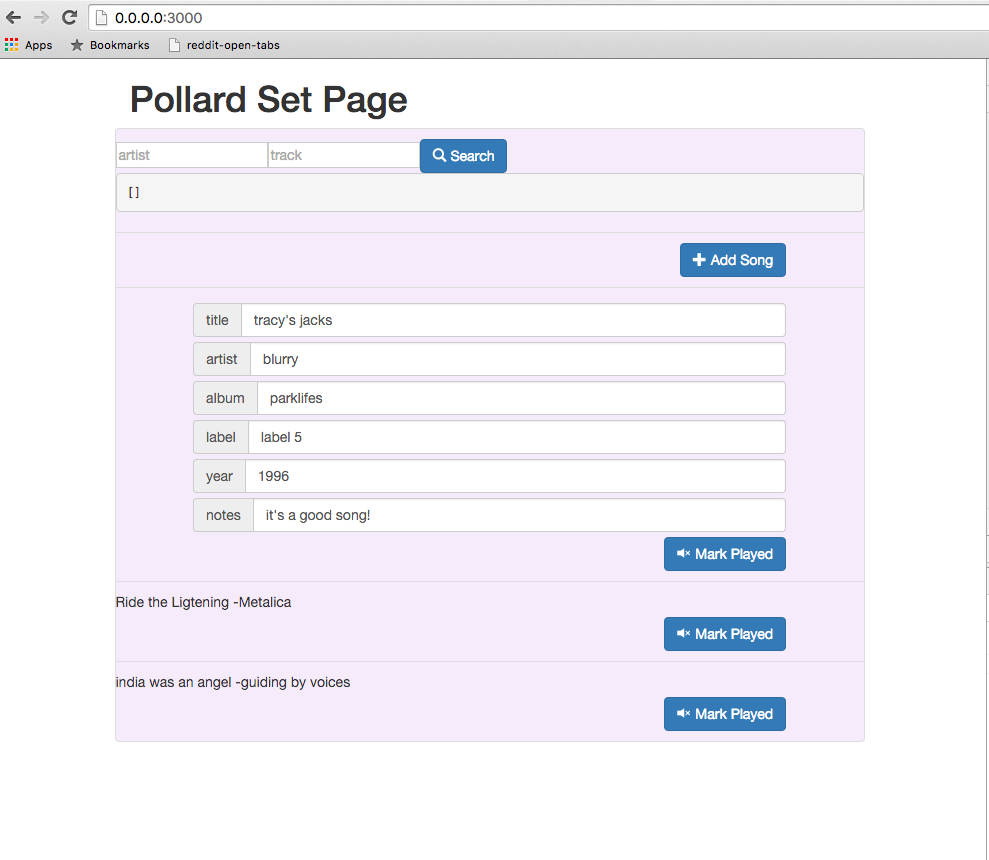
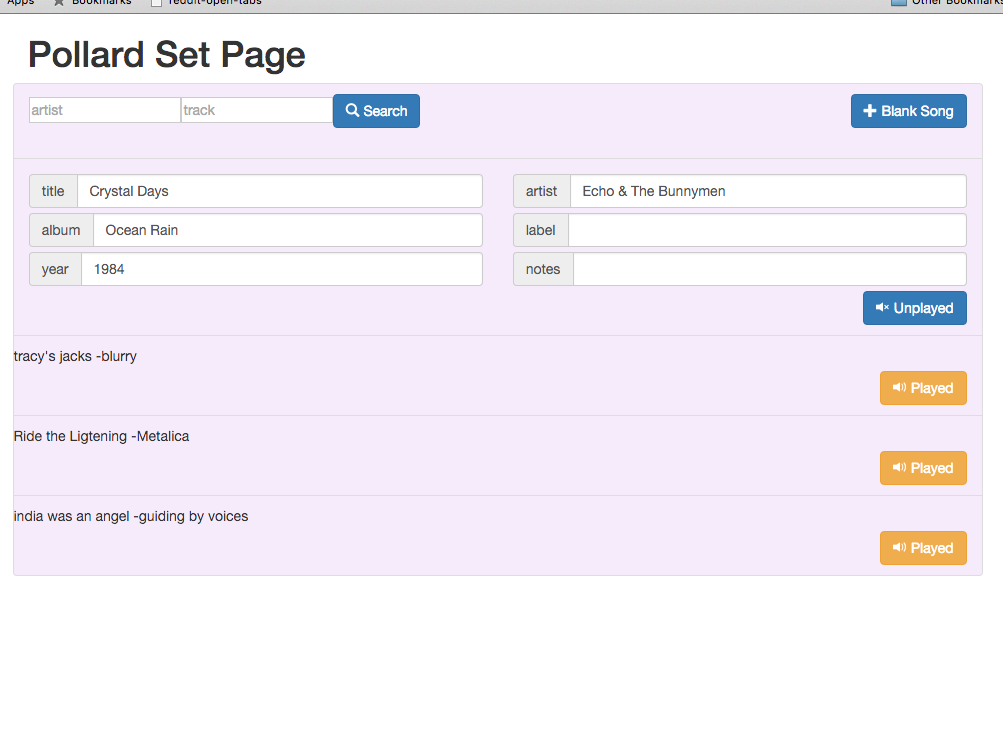
Add MarkPlayed UX
Will probably need to set some sort of rules for
when you can mark a song played
like you don't want to be able to mark a song played if there are
unplayed songs in front of it.

diff --git a/components/MarkPlayedBtn.js b/components/MarkPlayedBtn.js
@@ -1,30 +1,54 @@
 import React, { Component } from 'react';
 import classNames from 'classnames';
 
-import { POLLARD_ACTION } from '../constants/ActionTypes';
 import mergeStyles from '../lib/mergeStyles';
 
 
 export default class MarkPlayedBtn extends Component {
 	handleClick(event) {
-		console.log('hit mark played button');
+		this.props.onMarkSongPlayed(this.props.songId);
 	}
 
   render() {
-		let gridStyle = mergeStyles({
+		const gridStyle = mergeStyles({
 			marginTop: 5
 		});
+
+		let btnText;
+		let btnClass;
+		let spanGlyph;
+
+		if (this.props.isSongPlayed) {
+			btnText = 'Played';
+			btnClass = 'btn-warning';
+			spanGlyph = 'glyphicon-volume-up';
+		} else {
+			btnText = 'Unplayed';
+			btnClass = 'btn-primary';
+			spanGlyph = 'glyphicon-volume-off';
+		}
+
+		let btnClasses = classNames(
+			btnClass,
+			"btn",
+			"pull-right"
+		);
+
+		let spanClasses = classNames(
+			"glyphicon",
+			spanGlyph
+		);
 
     return (
 			<div className="col-xs-11 col-md-12" style={ gridStyle }>
 				<button
 					type="button"
-					className="btn btn-primary pull-right"
+					className={ btnClasses }
 					onClick={ (e) => this.handleClick(e) }
 					>
 					<span
-						className="glyphicon glyphicon-volume-off"
-						aria-hidden="true"></span> Mark Played
+						className={ spanClasses }
+						aria-hidden="true"></span> { btnText }
 				</button>
 			</div>
     );

diff --git a/components/Setlist.js b/components/Setlist.js
@@ -1,6 +1,5 @@
 import React, { Component } from 'react';
 
-import { POLLARD_ACTION } from '../constants/ActionTypes';
 import flatten2Array from '../lib/flattenObjectToArray';
 
 import SearchSong from './SearchSong';
@@ -23,10 +22,12 @@ export default class Setlist extends Component {
 							songId={ tuple[0] }
 							selectedSong={ this.props.selectedSong }
 							key={ idx }
+							onMarkSongPlayed={ this.props.onMarkSongPlayed }
 							onUpdateSong={ this.props.onUpdateSong } />:
 						<Song song={ tuple[1] }
 							songId={ tuple[0] }
 							key={ idx }
+							onMarkSongPlayed={ this.props.onMarkSongPlayed }
 							onSongClick={ this.props.onSongClick } />
 					)}
 				</ul>

diff --git a/components/SelectedSong.js b/components/SelectedSong.js
@@ -1,7 +1,6 @@
 import React, { Component } from 'react';
 import classNames from 'classnames';
 
-import { POLLARD_ACTION } from '../constants/ActionTypes';
 import SongInput from './SongInput';
 import MarkPlayedBtn from './MarkPlayedBtn';
 import mergeStyles from '../lib/mergeStyles';
@@ -31,7 +30,10 @@ export default class SelectedSong extends Component {
 				<div
 					className="row">
 					{ inputs }
-					<MarkPlayedBtn />
+					<MarkPlayedBtn
+						songId={ this.props.songId }
+						isSongPlayed={ this.props.song.played }
+						onMarkSongPlayed={ this.props.onMarkSongPlayed } />
 				</div>
 			</li>
     );

diff --git a/components/SetPage.js b/components/SetPage.js
@@ -1,6 +1,9 @@
 import React, { Component, PropTypes } from 'react';
 import { connect } from 'react-redux';
-import { selectSong, updateSong, addSong, searchSong } from '../actions/Actions.js';
+import { selectSong, updateSong,
+		addSong, searchSong,
+		markSongPlayed
+} from '../actions/Actions.js';
 
 import Setlist from './Setlist.js';
 
@@ -27,6 +30,9 @@ class SetPage extends Component {
 					}
 					onSearchSong={ (song) => 
             dispatch(searchSong(song))
+					}
+					onMarkSongPlayed={ (songId) => 
+            dispatch(markSongPlayed(songId))
 					}
 				/>
 			</div>

diff --git a/reducers/reducer.js b/reducers/reducer.js
@@ -19,7 +19,7 @@ const initialDataSongsState = Immutable.fromJS({
 			year: '1996',
 			notes: 'it\'s a good song!',
 		},
-		played: true
+		played: false
 	},
 	'id2': {
 		inputs: {
@@ -122,6 +122,10 @@ export function dataSongs(state = initialDataSongsState, action) {
 
 		return Immutable.Map(songObj).merge(state);
 	case actionTypes.MARK_SONG_PLAYED:
+		return state.setIn(
+			[action.id, 'played'],
+			!state.get(action.id).get('played')
+		);
 	case actionTypes.DELETE_SONG:
 		debugger;
     return state;

diff --git a/components/Song.js b/components/Song.js
@@ -24,7 +24,10 @@ export default class Song extends Component {
 					className="row">
 					{ this.props.song.inputs.title } - 
 					{ this.props.song.inputs.artist }
-					<MarkPlayedBtn />
+					<MarkPlayedBtn
+						songId={ this.props.songId }
+						isSongPlayed={ this.props.song.played }
+						onMarkSongPlayed={ this.props.onMarkSongPlayed } />
 				</div>
 			</li>
     );

diff --git a/actions/Actions.js b/actions/Actions.js
@@ -49,10 +49,10 @@ export function addSong(song) {
   }
 };
 
-export function markSongPlayed(payload) {
+export function markSongPlayed(id) {
   return {
     type: types.MARK_SONG_PLAYED,
-    payload
+    id
   }
 };
 

diff --git a/components/SongInput.js b/components/SongInput.js
@@ -1,7 +1,6 @@
 import React, { Component } from 'react';
 import classNames from 'classnames';
 
-import { POLLARD_ACTION } from '../constants/ActionTypes';
 import mergeStyles from '../lib/mergeStyles';
 
 

diff --git a/constants/ActionTypes.js b/constants/ActionTypes.js
@@ -1,5 +1,3 @@
-export const POLLARD_ACTION = 'POLLARD_ACTION';
-
 export const ADD_SET = 'ADD_SET';
 export const SELECT_SET = 'SELECT_SET';
 export const UPDATE_SET = 'UPDATE_SET';
